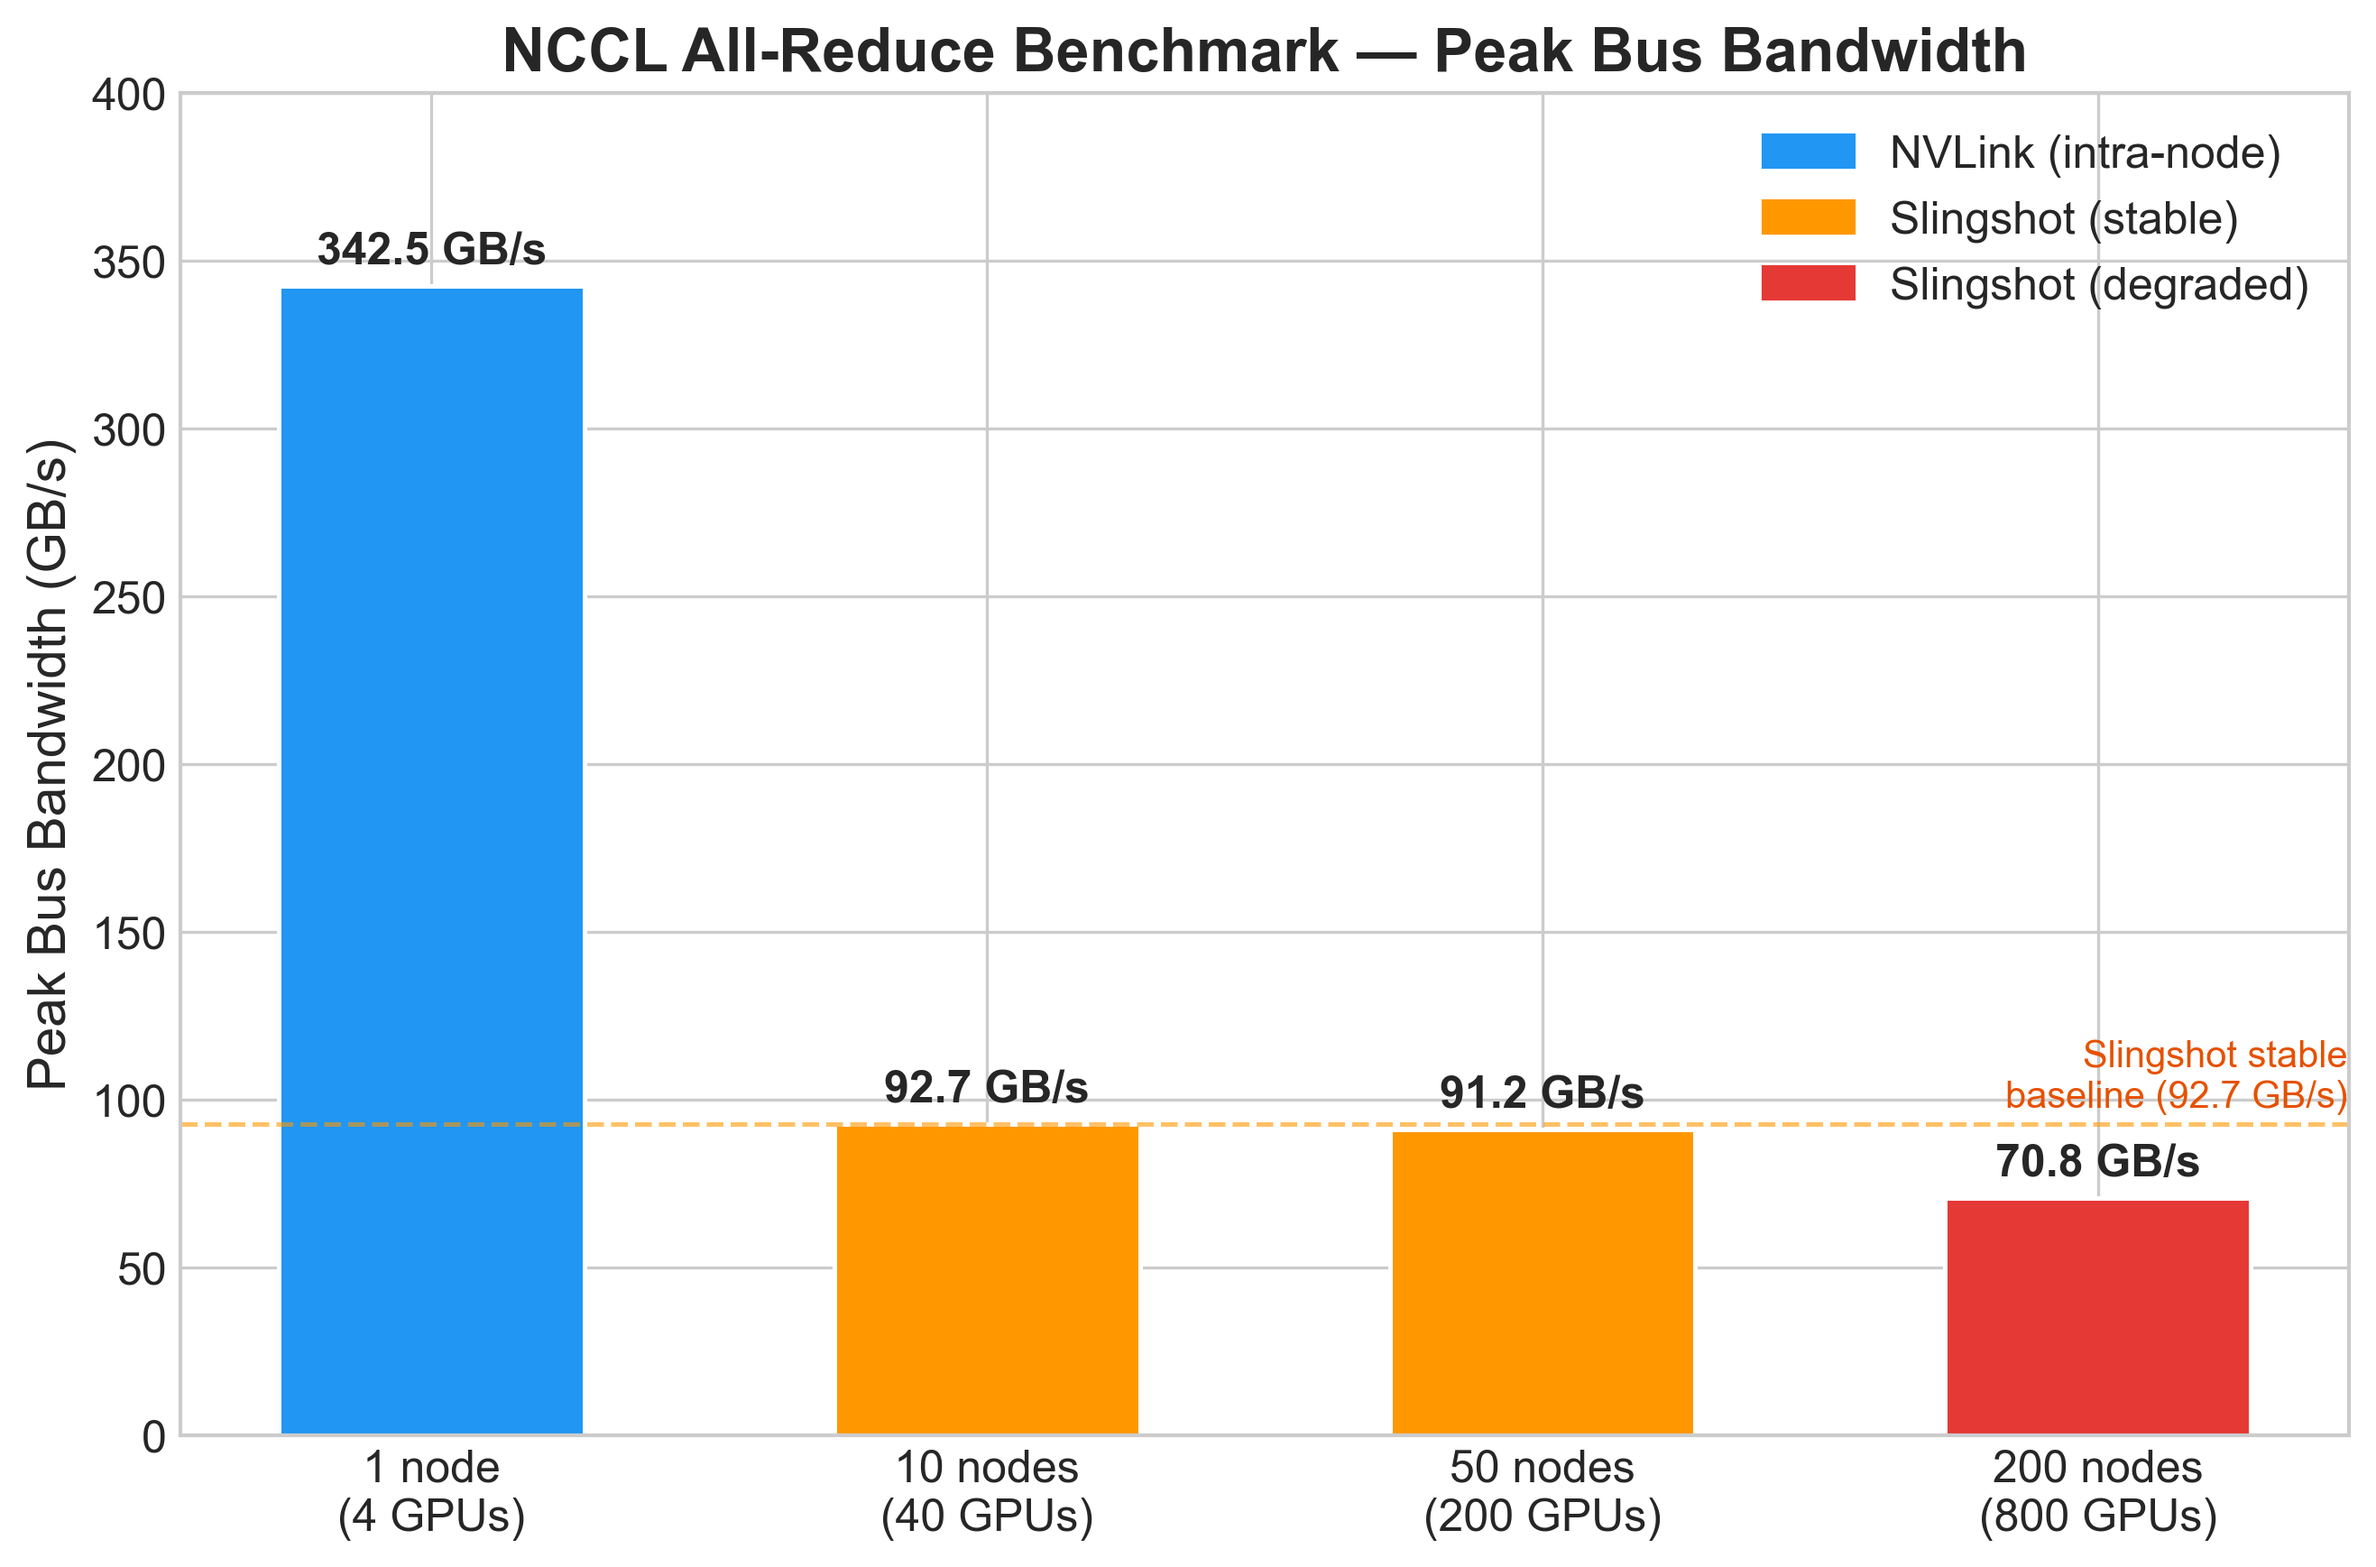
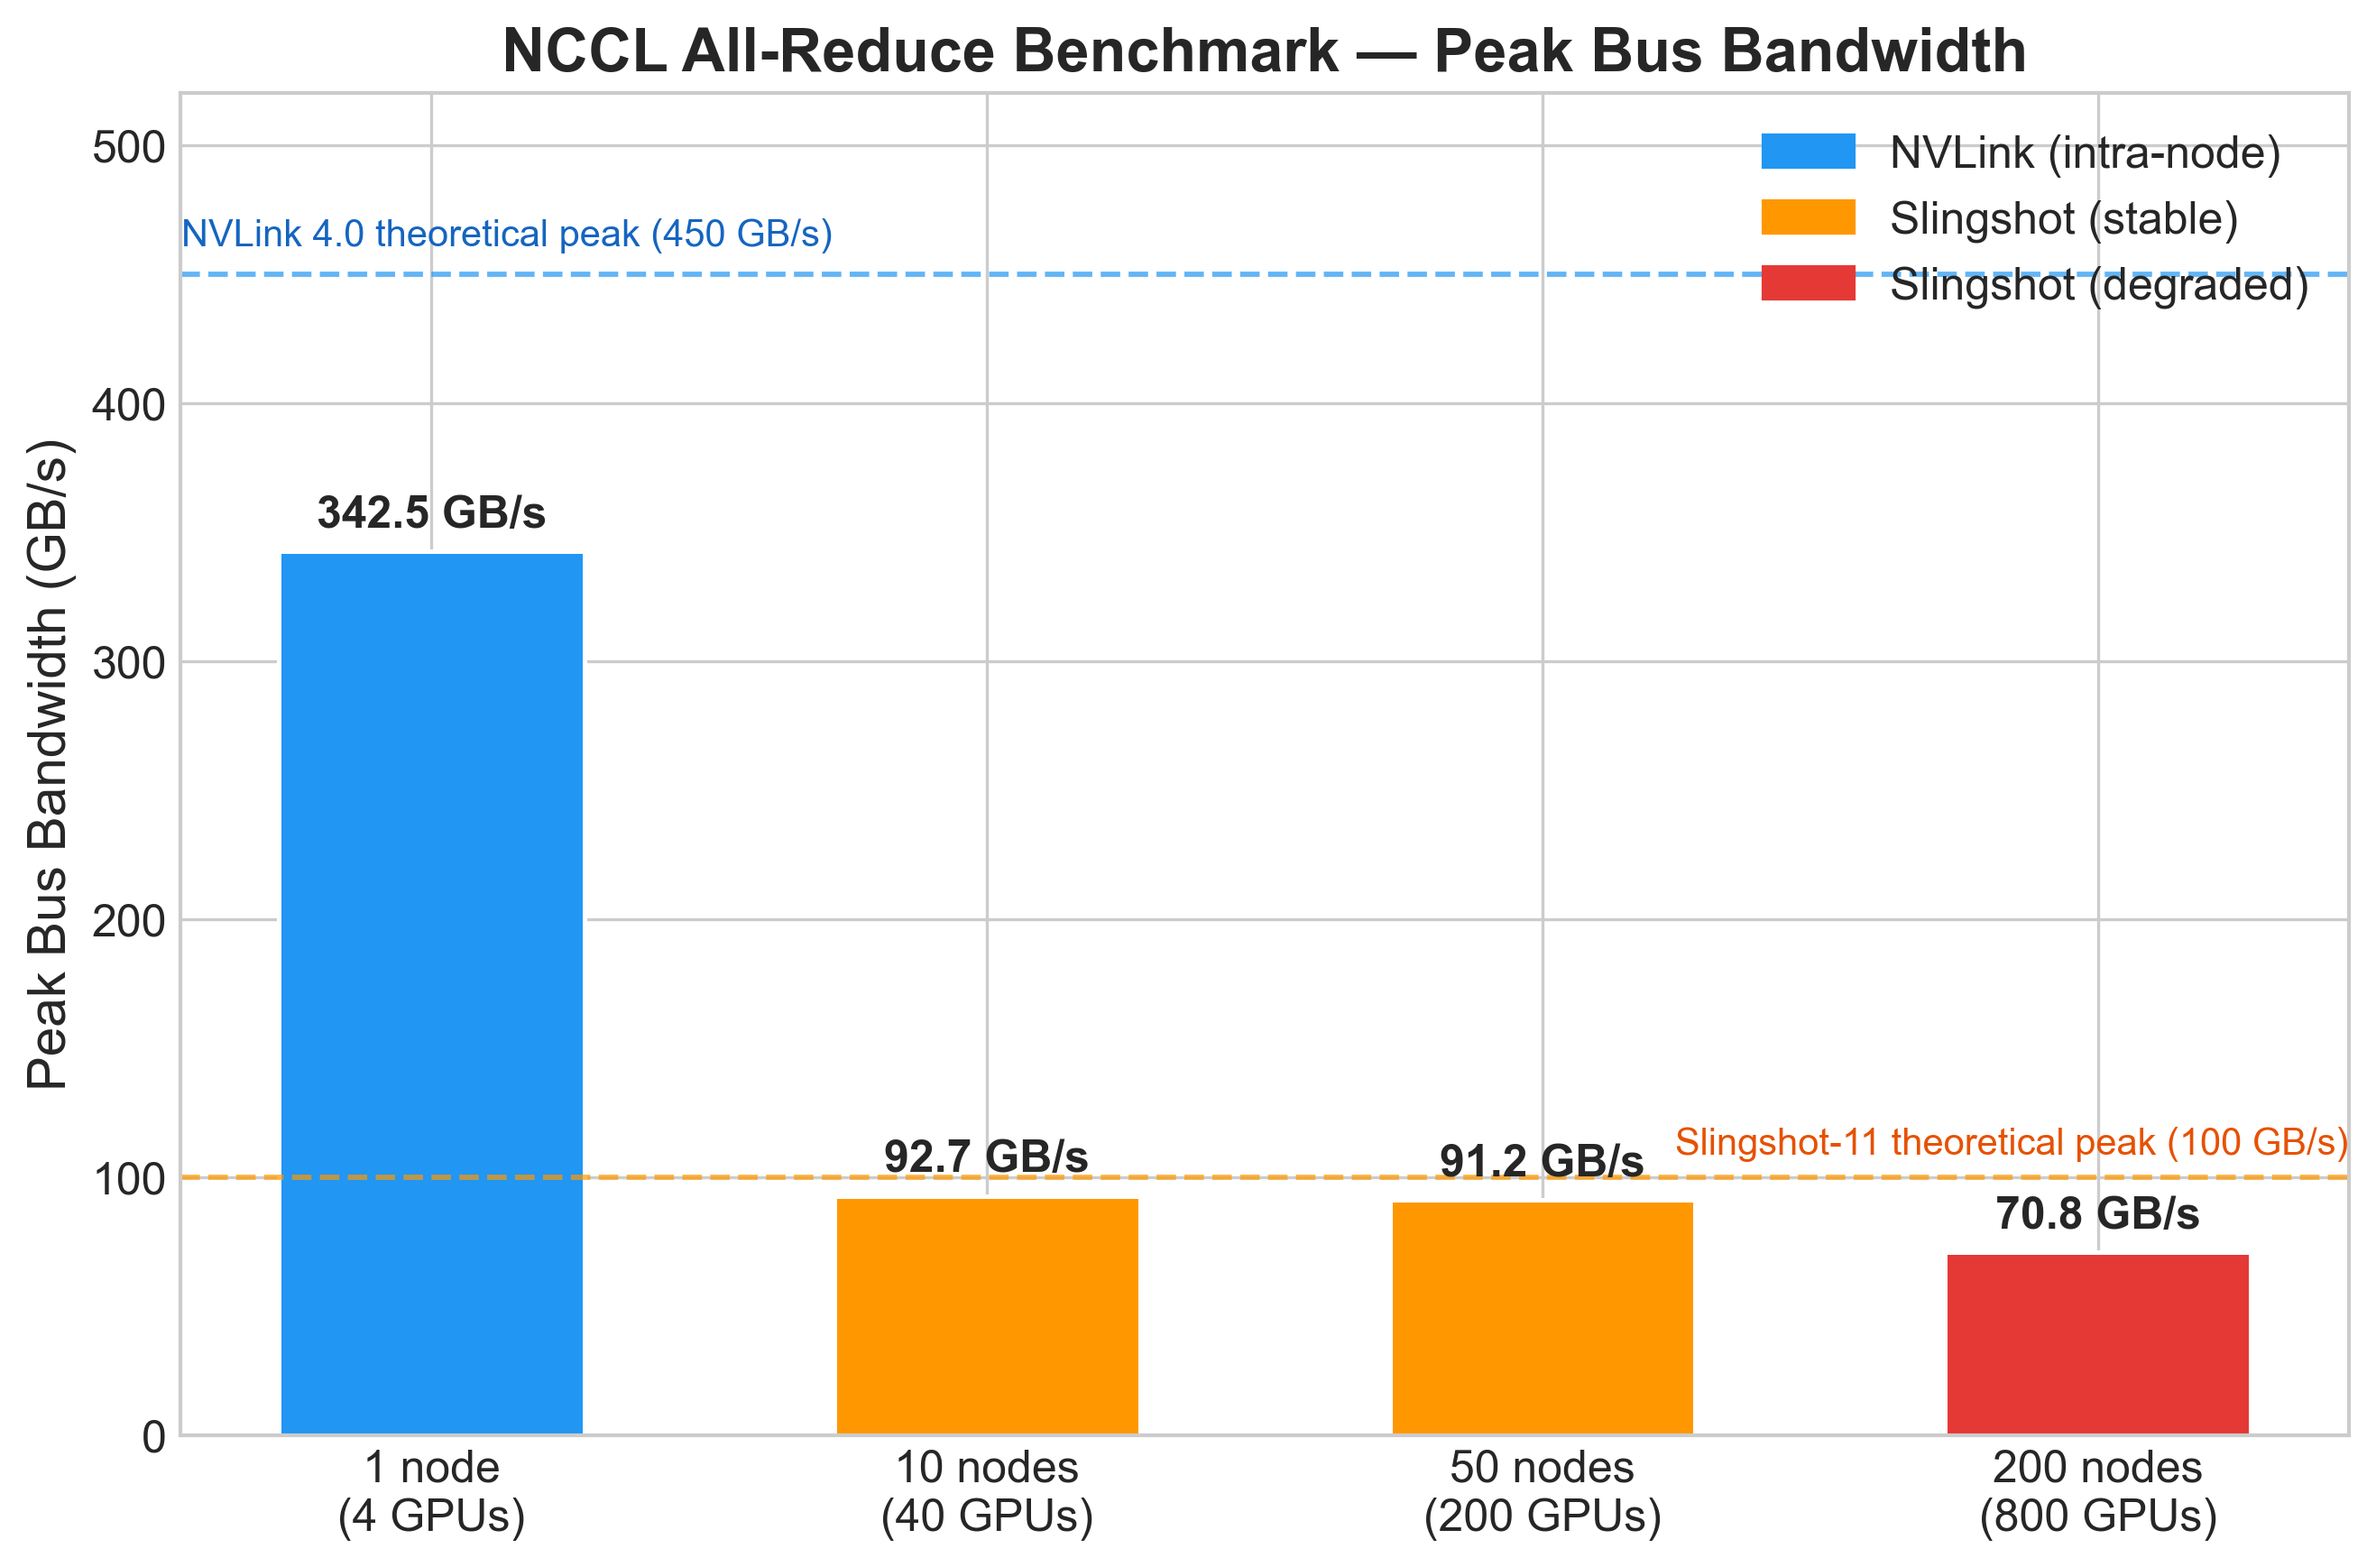
Improvements Initial Scaling Tests

diff --git a/report/scripts/2.1_nccl_benchmark.py b/report/scripts/2.1_nccl_benchmark.py
@@ -1,6 +1,9 @@
 """
 Figure 5 — NCCL All-Reduce benchmark bandwidth vs node count.
 Data source: nccl-tests all_reduce_perf, Isambard-AI.
+Theoretical ceilings:
+  NVLink 4.0: 450 GB/s unidirectional per GH200 GPU
+  Slingshot-11: 100 GB/s per node (4 NICs × 25 GB/s)
 """
 
 import matplotlib.pyplot as plt
@@ -24,25 +27,33 @@ labels     = ['1 node\n(4 GPUs)', '10 nodes\n(40 GPUs)',
                '50 nodes\n(200 GPUs)', '200 nodes\n(800 GPUs)']
 colors     = ['#2196F3', '#FF9800', '#FF9800', '#E53935']  # blue = NVLink, orange = Slingshot stable, red = drop
 
+NVLINK_PEAK     = 450   # GB/s — NVLink 4.0 unidirectional per GH200 GPU
+SLINGSHOT_PEAK  = 100   # GB/s — Slingshot-11: 4 NICs × 25 GB/s per node
+
 fig, ax = plt.subplots(figsize=(9, 6))
 
 bars = ax.bar(labels, bandwidth, color=colors, width=0.55, edgecolor='white', linewidth=1.2)
 
 for bar, bw in zip(bars, bandwidth):
-    ax.text(bar.get_x() + bar.get_width() / 2, bar.get_height() + 4,
+    ax.text(bar.get_x() + bar.get_width() / 2, bar.get_height() + 6,
             f'{bw} GB/s', ha='center', va='bottom', fontsize=12, fontweight='bold')
 
-ax.axhline(bandwidth[1], color='#FF9800', linestyle='--', linewidth=1.2, alpha=0.6)
-ax.text(3.45, bandwidth[1] + 3, 'Slingshot stable\nbaseline (92.7 GB/s)',
+# Theoretical ceilings
+ax.axhline(NVLINK_PEAK, color='#2196F3', linestyle='--', linewidth=1.4, alpha=0.7)
+ax.text(-0.45, NVLINK_PEAK + 8, f'NVLink 4.0 theoretical peak ({NVLINK_PEAK} GB/s)',
+        ha='left', va='bottom', fontsize=10, color='#1565C0')
+
+ax.axhline(SLINGSHOT_PEAK, color='#FF9800', linestyle='--', linewidth=1.4, alpha=0.7)
+ax.text(3.45, SLINGSHOT_PEAK + 6, f'Slingshot-11 theoretical peak ({SLINGSHOT_PEAK} GB/s)',
         ha='right', va='bottom', fontsize=10, color='#E65100')
 
 ax.set_ylabel('Peak Bus Bandwidth (GB/s)')
 ax.set_title('NCCL All-Reduce Benchmark — Peak Bus Bandwidth', fontweight='bold')
-ax.set_ylim(0, 400)
+ax.set_ylim(0, 520)
 
-nvlink_patch  = mpatches.Patch(color='#2196F3', label='NVLink (intra-node)')
+nvlink_patch    = mpatches.Patch(color='#2196F3', label='NVLink (intra-node)')
 slingshot_patch = mpatches.Patch(color='#FF9800', label='Slingshot (stable)')
-drop_patch    = mpatches.Patch(color='#E53935', label='Slingshot (degraded)')
+drop_patch      = mpatches.Patch(color='#E53935', label='Slingshot (degraded)')
 ax.legend(handles=[nvlink_patch, slingshot_patch, drop_patch], loc='upper right')
 
 fig.tight_layout()

diff --git a/report/report.md b/report/report.md
@@ -106,9 +106,9 @@ NCCL (NVIDIA Collective Communications Library) [6] is the communication backend
 NCCL `All-Reduce` benchmarks were carried out on Isambard-AI across 1, 10, 50, and 200 nodes.
 
 ![NCCL All-Reduce Benchmark Bandwidth](plots/2.1_nccl_benchmark.png)
-*Figure 5. Peak bus bandwidth of NCCL `All-Reduce` as a function of node count. NVLink (1 node) provides 342.5 GB/s; Slingshot bandwidth is stable at 91–93 GB/s from 10 to 50 nodes, dropping ~23% at 200 nodes.*
+*Figure 5. Peak bus bandwidth of NCCL `All-Reduce` as a function of node count. NVLink (1 node) provides 342.5 GB/s against a theoretical peak of 450 GB/s (NVLink 4.0 unidirectional, 76% utilisation). Slingshot bandwidth is stable at 91–93 GB/s from 10 to 50 nodes against a theoretical ceiling of 100 GB/s (4 NICs × 25 GB/s per node, 91–93% utilisation), reducing to 70.8 GB/s (71% of theoretical) at 200 nodes.*
 
-Bandwidth is stable between 10 and 50 nodes (92.7 → 91.2 GB/s), confirming that the scaling degradation seen in the initial tests is **not** caused by network bandwidth. The gradient tensor size is fixed by model parameters and does not grow with node count, so the volume of data to synchronise is also not the primary cause. What does grow with node count is the number of participating ranks, which increases `All-Reduce` latency and can affect NCCL algorithm selection and collective coordination overhead. The following sections investigate the source of overhead tier by tier — beginning with single-GPU performance characterisation, then single-node multi-GPU communication overhead, and finally multi-node scaling behaviour.
+Bandwidth is stable between 10 and 50 nodes (92.7 → 91.2 GB/s), confirming that the scaling degradation seen in the initial tests is **not** caused by network bandwidth. The gradient tensor size is fixed by model parameters and does not grow with node count, so the volume of data to synchronise is also not the primary cause. What does grow with node count is the number of participating ranks, which increases `All-Reduce` latency and can affect NCCL algorithm selection and collective coordination overhead. At 200 nodes bandwidth reduces to 70.8 GB/s, suggesting network bandwidth may become a contributing factor at very large node counts — though this range was not profiled in detail. The following sections investigate the source of overhead tier by tier — beginning with single-GPU performance characterisation, then single-node multi-GPU communication overhead, and finally multi-node scaling behaviour.
 
 ## Single GPU
 
